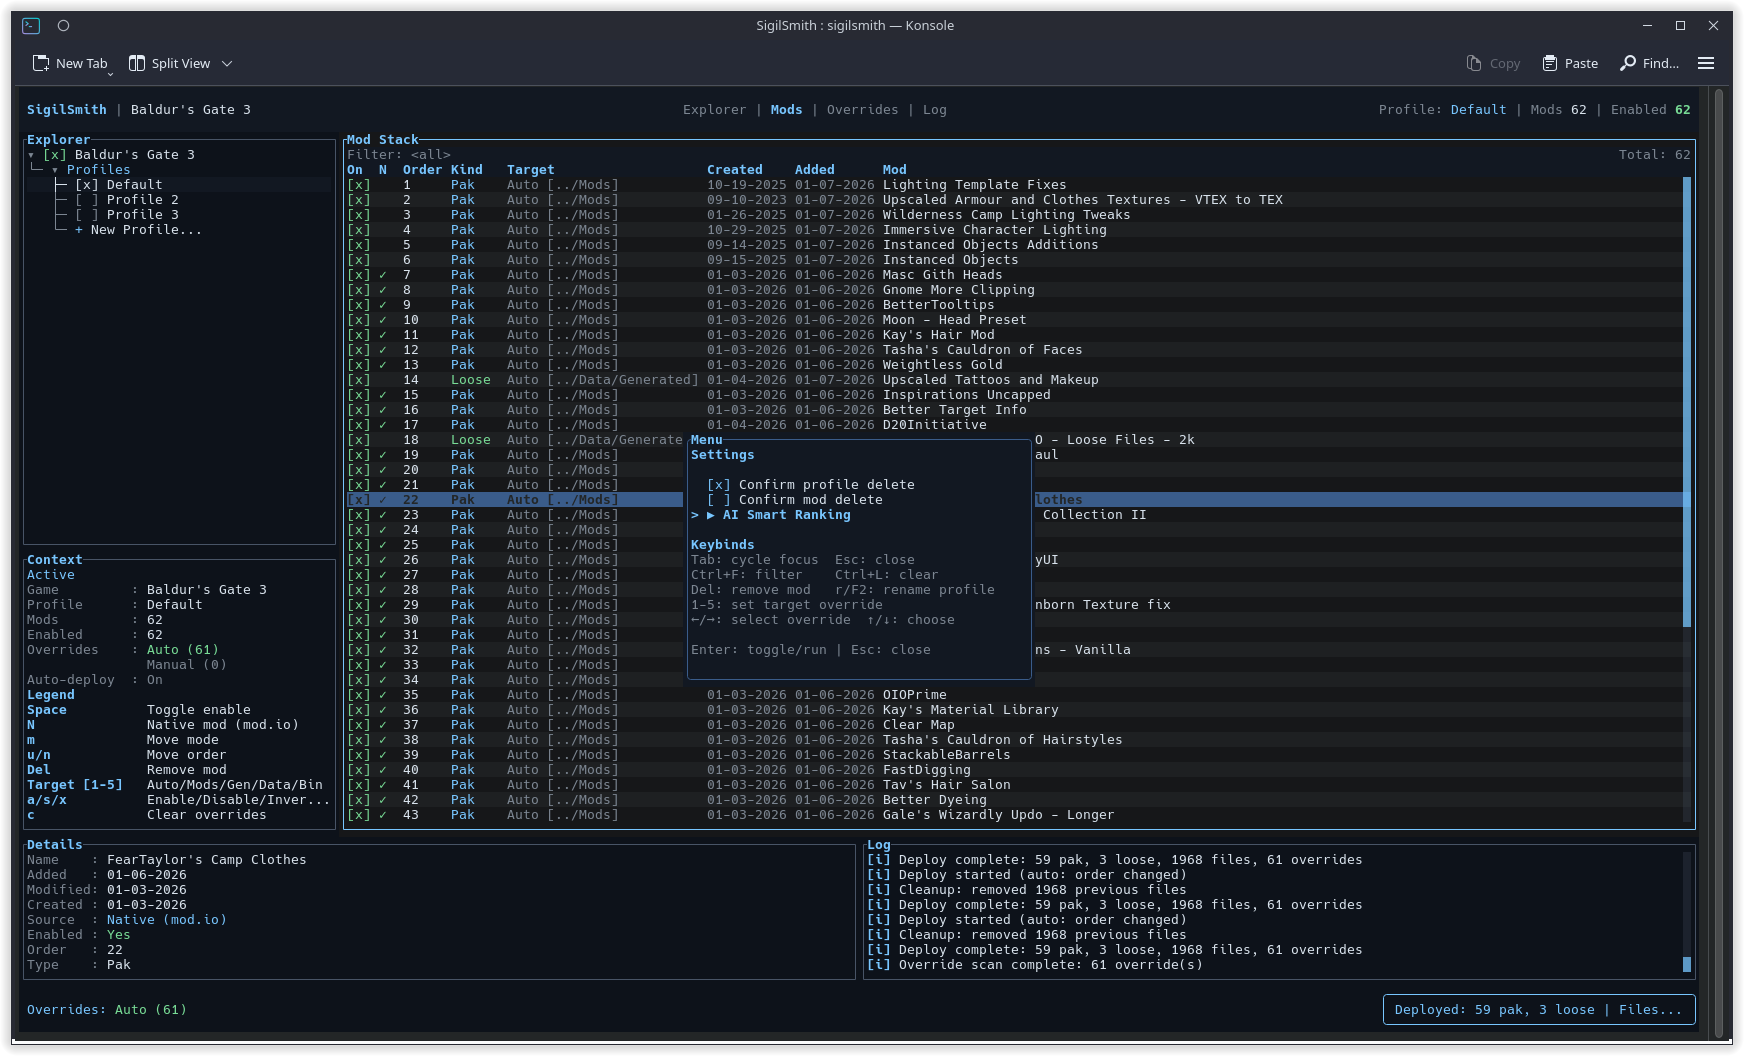
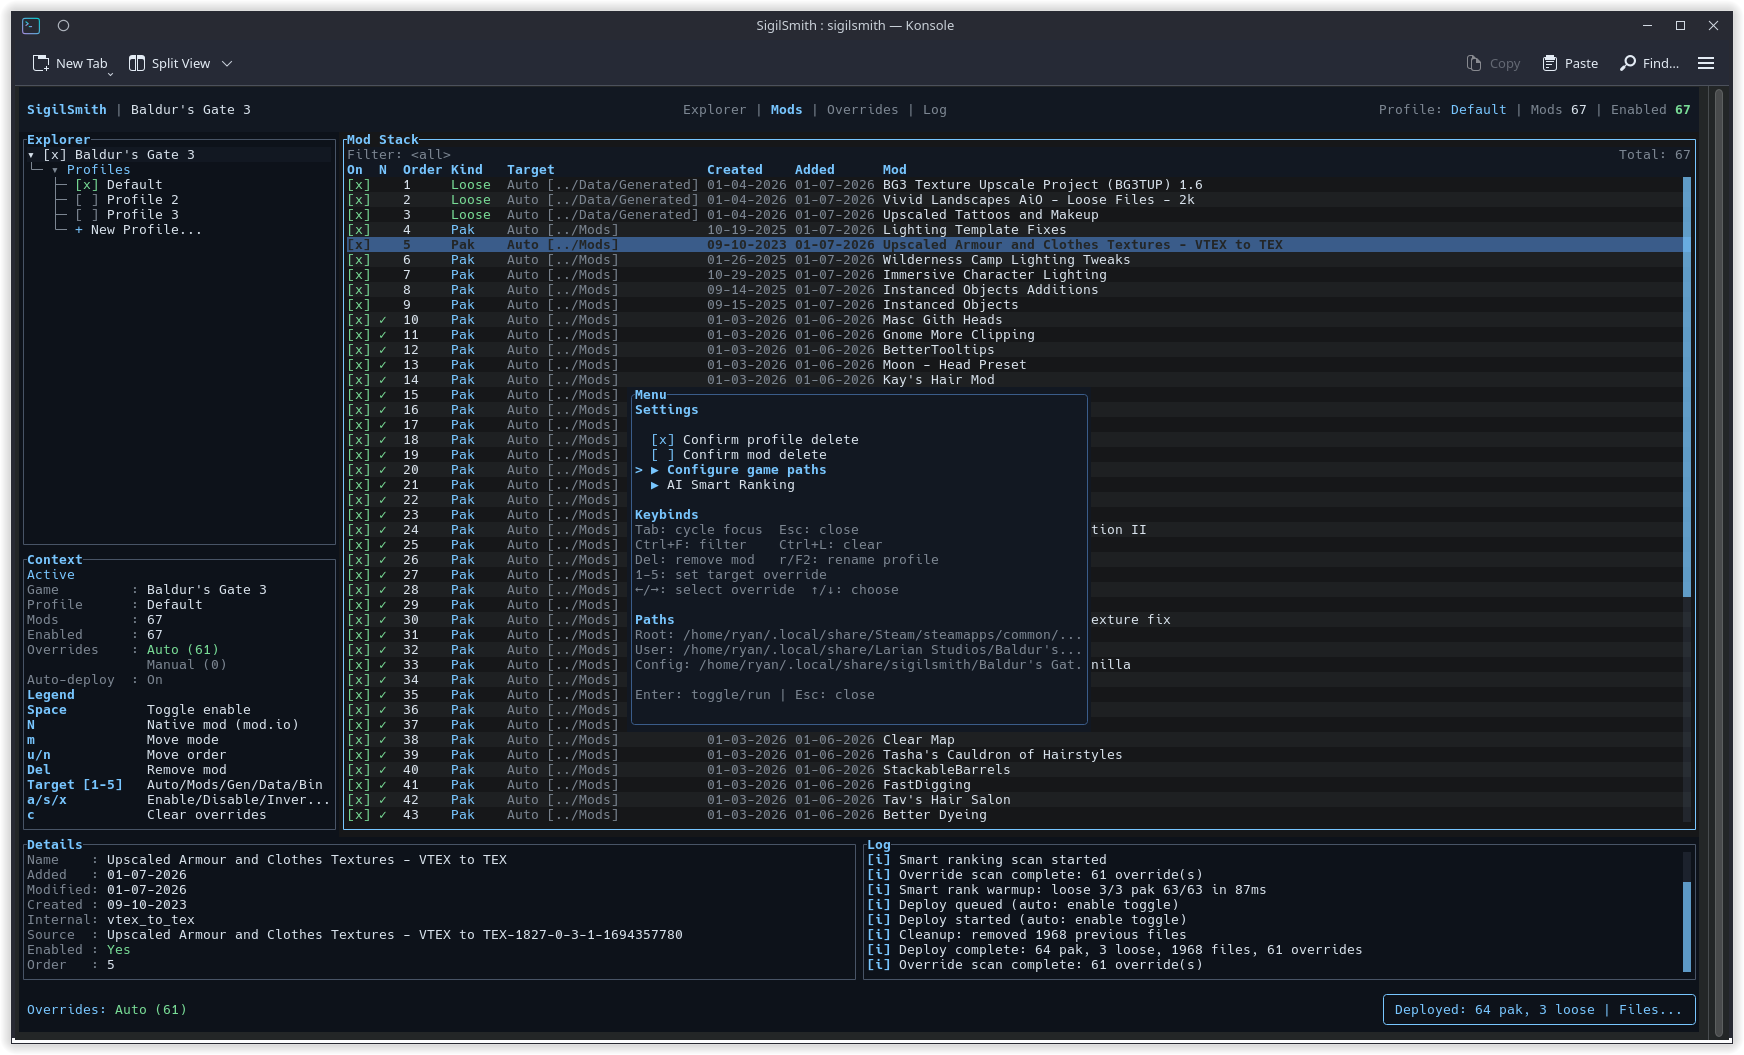
Update screenshots and release notes

diff --git a/docs/release_body.md b/docs/release_body.md
@@ -1,12 +1,13 @@
-# SigilSmith v0.4.1
+# SigilSmith v0.4.2
 
 SigilSmith is a Linux-first TUI mod manager for Baldur's Gate 3. Drag-drop mods, manage profiles, resolve overrides, and deploy with confidence. Multi-game support is coming next via an open adapter template.
 
 ## Highlights
 
-- Setup onboarding improvements with clearer status and path auto-detect retry.
-- Settings menu now includes a Configure Paths action plus config path display.
-- Context + Explorer details show config path and setup hints.
+- Guided path browser for BG3 install + Larian data directories.
+- Path browser supports manual path entry with list/path focus switching.
+- Settings menu includes Configure Paths and shows current config locations.
+- Public repo now includes full source under Apache-2.0 with CI-built releases.
 - Override Actions panel with debounced swap overlay for manual conflict picks.
 - AI Smart Ranking preview (diff + scroll) for safer order suggestions.
 
@@ -18,6 +19,7 @@ SigilSmith is a Linux-first TUI mod manager for Baldur's Gate 3. Drag-drop mods,
 ![Smart Ranking](docs/04-smart-ranking.png)
 ![Settings](docs/05-settings-menu.png)
 ![Import Toast](docs/06-import-toast.png)
+![Directory Select](docs/07_directory_select.png)
 
 ## Install
 

diff --git a/README.md b/README.md
@@ -16,6 +16,7 @@ Multi-game support is coming next via an open adapter template (BG3-first today,
 ![Smart Ranking](docs/04-smart-ranking.png)
 ![Settings](docs/05-settings-menu.png)
 ![Import Toast](docs/06-import-toast.png)
+![Directory Select](docs/07_directory_select.png)
 
 ## Highlights
 
